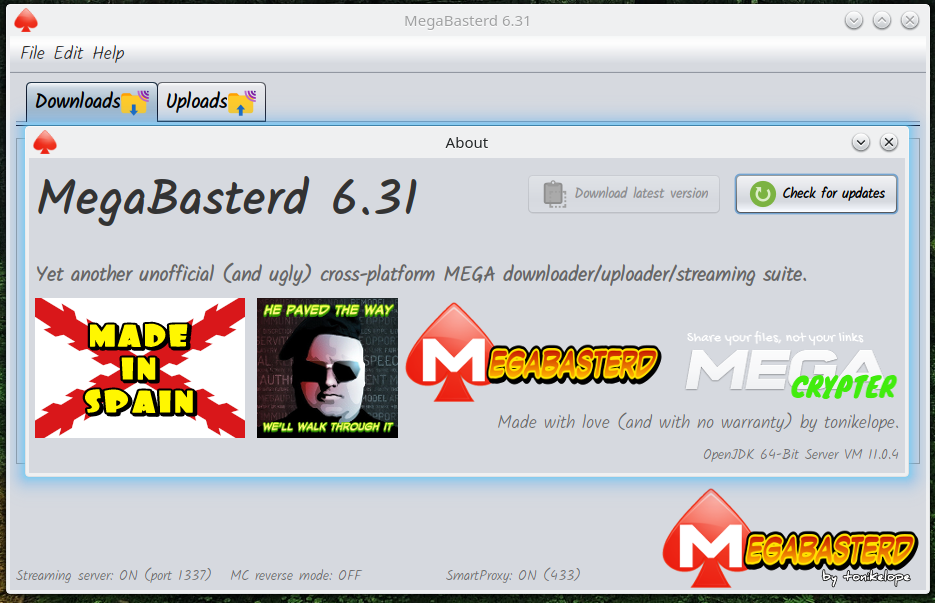
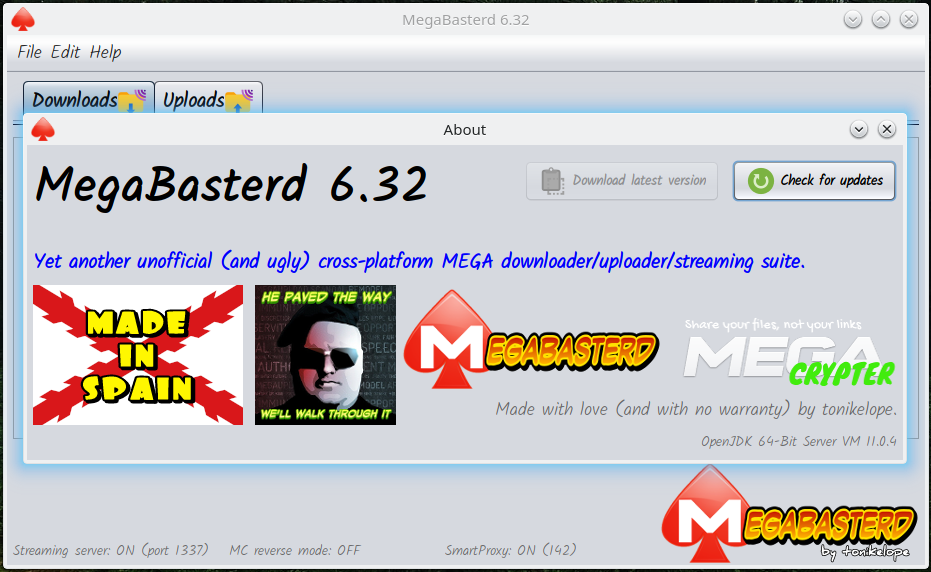
6.32
-Fix settings dialog

(cherry picked from commit f95789c1627fb07ef51b4e0871174550635ee090)

diff --git a/src/main/java/com/tonikelope/megabasterd/SettingsDialog.java b/src/main/java/com/tonikelope/megabasterd/SettingsDialog.java
@@ -760,7 +760,7 @@ public final class SettingsDialog extends javax.swing.JDialog {
         verify_file_down_checkbox.setDoubleBuffered(true);
 
         use_mega_account_down_checkbox.setFont(new java.awt.Font("Dialog", 1, 18)); // NOI18N
-        use_mega_account_down_checkbox.setText("Allow to use MEGA accounts for download/streaming");
+        use_mega_account_down_checkbox.setText("Allow using MEGA accounts for download/streaming");
         use_mega_account_down_checkbox.addChangeListener(new javax.swing.event.ChangeListener() {
             public void stateChanged(javax.swing.event.ChangeEvent evt) {
                 use_mega_account_down_checkboxStateChanged(evt);
@@ -842,32 +842,31 @@ public final class SettingsDialog extends javax.swing.JDialog {
                         .addContainerGap())
                     .addGroup(javax.swing.GroupLayout.Alignment.TRAILING, downloads_panelLayout.createSequentialGroup()
                         .addGroup(downloads_panelLayout.createParallelGroup(javax.swing.GroupLayout.Alignment.TRAILING)
-                            .addComponent(jSeparator10, javax.swing.GroupLayout.Alignment.LEADING, javax.swing.GroupLayout.DEFAULT_SIZE, 1235, Short.MAX_VALUE)
+                            .addComponent(jSeparator10, javax.swing.GroupLayout.Alignment.LEADING, javax.swing.GroupLayout.DEFAULT_SIZE, 1683, Short.MAX_VALUE)
+                            .addComponent(smart_proxy_checkbox, javax.swing.GroupLayout.Alignment.LEADING)
                             .addGroup(javax.swing.GroupLayout.Alignment.LEADING, downloads_panelLayout.createSequentialGroup()
-                                .addGroup(downloads_panelLayout.createParallelGroup(javax.swing.GroupLayout.Alignment.TRAILING)
-                                    .addComponent(smart_proxy_checkbox, javax.swing.GroupLayout.Alignment.LEADING)
-                                    .addGroup(javax.swing.GroupLayout.Alignment.LEADING, downloads_panelLayout.createSequentialGroup()
-                                        .addComponent(max_downloads_label)
+                                .addComponent(max_downloads_label)
+                                .addPreferredGap(javax.swing.LayoutStyle.ComponentPlacement.RELATED)
+                                .addComponent(max_downloads_spinner, javax.swing.GroupLayout.PREFERRED_SIZE, javax.swing.GroupLayout.DEFAULT_SIZE, javax.swing.GroupLayout.PREFERRED_SIZE))
+                            .addComponent(multi_slot_down_checkbox, javax.swing.GroupLayout.Alignment.LEADING)
+                            .addComponent(limit_download_speed_checkbox, javax.swing.GroupLayout.Alignment.LEADING)
+                            .addComponent(rec_smart_proxy_label, javax.swing.GroupLayout.Alignment.LEADING)
+                            .addGroup(javax.swing.GroupLayout.Alignment.LEADING, downloads_panelLayout.createSequentialGroup()
+                                .addGap(21, 21, 21)
+                                .addGroup(downloads_panelLayout.createParallelGroup(javax.swing.GroupLayout.Alignment.LEADING)
+                                    .addComponent(rec_download_slots_label)
+                                    .addGroup(downloads_panelLayout.createSequentialGroup()
+                                        .addComponent(default_slots_down_label)
                                         .addPreferredGap(javax.swing.LayoutStyle.ComponentPlacement.RELATED)
-                                        .addComponent(max_downloads_spinner, javax.swing.GroupLayout.PREFERRED_SIZE, javax.swing.GroupLayout.DEFAULT_SIZE, javax.swing.GroupLayout.PREFERRED_SIZE))
-                                    .addComponent(multi_slot_down_checkbox, javax.swing.GroupLayout.Alignment.LEADING)
-                                    .addComponent(limit_download_speed_checkbox, javax.swing.GroupLayout.Alignment.LEADING)
-                                    .addComponent(rec_smart_proxy_label, javax.swing.GroupLayout.Alignment.LEADING)
-                                    .addGroup(javax.swing.GroupLayout.Alignment.LEADING, downloads_panelLayout.createSequentialGroup()
-                                        .addGap(21, 21, 21)
-                                        .addGroup(downloads_panelLayout.createParallelGroup(javax.swing.GroupLayout.Alignment.LEADING)
-                                            .addComponent(use_mega_label)
-                                            .addComponent(rec_download_slots_label)
-                                            .addGroup(downloads_panelLayout.createSequentialGroup()
-                                                .addComponent(default_slots_down_label)
-                                                .addPreferredGap(javax.swing.LayoutStyle.ComponentPlacement.RELATED)
-                                                .addComponent(default_slots_down_spinner, javax.swing.GroupLayout.PREFERRED_SIZE, javax.swing.GroupLayout.DEFAULT_SIZE, javax.swing.GroupLayout.PREFERRED_SIZE))
-                                            .addGroup(downloads_panelLayout.createSequentialGroup()
-                                                .addComponent(max_down_speed_label)
-                                                .addPreferredGap(javax.swing.LayoutStyle.ComponentPlacement.RELATED)
-                                                .addComponent(max_down_speed_spinner, javax.swing.GroupLayout.PREFERRED_SIZE, javax.swing.GroupLayout.DEFAULT_SIZE, javax.swing.GroupLayout.PREFERRED_SIZE)))))
-                                .addGap(0, 0, Short.MAX_VALUE))
-                            .addComponent(use_mega_account_down_combobox, javax.swing.GroupLayout.Alignment.LEADING, 0, javax.swing.GroupLayout.DEFAULT_SIZE, Short.MAX_VALUE))
+                                        .addComponent(default_slots_down_spinner, javax.swing.GroupLayout.PREFERRED_SIZE, javax.swing.GroupLayout.DEFAULT_SIZE, javax.swing.GroupLayout.PREFERRED_SIZE))
+                                    .addGroup(downloads_panelLayout.createSequentialGroup()
+                                        .addComponent(max_down_speed_label)
+                                        .addPreferredGap(javax.swing.LayoutStyle.ComponentPlacement.RELATED)
+                                        .addComponent(max_down_speed_spinner, javax.swing.GroupLayout.PREFERRED_SIZE, javax.swing.GroupLayout.DEFAULT_SIZE, javax.swing.GroupLayout.PREFERRED_SIZE))
+                                    .addGroup(downloads_panelLayout.createSequentialGroup()
+                                        .addComponent(use_mega_label)
+                                        .addPreferredGap(javax.swing.LayoutStyle.ComponentPlacement.RELATED)
+                                        .addComponent(use_mega_account_down_combobox, javax.swing.GroupLayout.PREFERRED_SIZE, 700, javax.swing.GroupLayout.PREFERRED_SIZE)))))
                         .addGap(12, 12, 12))
                     .addGroup(downloads_panelLayout.createSequentialGroup()
                         .addGroup(downloads_panelLayout.createParallelGroup(javax.swing.GroupLayout.Alignment.LEADING)
@@ -1307,11 +1306,11 @@ public final class SettingsDialog extends javax.swing.JDialog {
                 .addContainerGap()
                 .addComponent(proxy_user_label)
                 .addPreferredGap(javax.swing.LayoutStyle.ComponentPlacement.RELATED)
-                .addComponent(proxy_user_textfield, javax.swing.GroupLayout.DEFAULT_SIZE, 389, Short.MAX_VALUE)
+                .addComponent(proxy_user_textfield)
                 .addPreferredGap(javax.swing.LayoutStyle.ComponentPlacement.RELATED)
                 .addComponent(proxy_pass_label)
                 .addPreferredGap(javax.swing.LayoutStyle.ComponentPlacement.RELATED)
-                .addComponent(proxy_pass_textfield, javax.swing.GroupLayout.DEFAULT_SIZE, 552, Short.MAX_VALUE))
+                .addComponent(proxy_pass_textfield))
         );
         proxy_auth_panelLayout.setVerticalGroup(
             proxy_auth_panelLayout.createParallelGroup(javax.swing.GroupLayout.Alignment.LEADING)
@@ -1448,72 +1447,65 @@ public final class SettingsDialog extends javax.swing.JDialog {
         advanced_panel.setLayout(advanced_panelLayout);
         advanced_panelLayout.setHorizontalGroup(
             advanced_panelLayout.createParallelGroup(javax.swing.GroupLayout.Alignment.LEADING)
-            .addGroup(advanced_panelLayout.createSequentialGroup()
+            .addGroup(javax.swing.GroupLayout.Alignment.TRAILING, advanced_panelLayout.createSequentialGroup()
                 .addContainerGap()
                 .addGroup(advanced_panelLayout.createParallelGroup(javax.swing.GroupLayout.Alignment.LEADING)
+                    .addComponent(jSeparator15, javax.swing.GroupLayout.Alignment.TRAILING)
+                    .addComponent(jSeparator12, javax.swing.GroupLayout.Alignment.TRAILING)
+                    .addComponent(jSeparator1)
+                    .addComponent(proxy_panel, javax.swing.GroupLayout.DEFAULT_SIZE, javax.swing.GroupLayout.DEFAULT_SIZE, Short.MAX_VALUE)
                     .addGroup(advanced_panelLayout.createSequentialGroup()
-                        .addComponent(rec_zoom_label)
+                        .addGroup(advanced_panelLayout.createParallelGroup(javax.swing.GroupLayout.Alignment.TRAILING)
+                            .addComponent(rec_zoom_label, javax.swing.GroupLayout.Alignment.LEADING)
+                            .addComponent(start_frozen_checkbox, javax.swing.GroupLayout.Alignment.LEADING)
+                            .addComponent(custom_chunks_dir_checkbox, javax.swing.GroupLayout.Alignment.LEADING)
+                            .addGroup(javax.swing.GroupLayout.Alignment.LEADING, advanced_panelLayout.createSequentialGroup()
+                                .addComponent(custom_chunks_dir_button)
+                                .addPreferredGap(javax.swing.LayoutStyle.ComponentPlacement.RELATED)
+                                .addComponent(custom_chunks_dir_current_label)))
                         .addGap(0, 0, Short.MAX_VALUE))
                     .addGroup(advanced_panelLayout.createSequentialGroup()
                         .addGroup(advanced_panelLayout.createParallelGroup(javax.swing.GroupLayout.Alignment.LEADING)
-                            .addComponent(jSeparator1)
-                            .addComponent(proxy_panel, javax.swing.GroupLayout.DEFAULT_SIZE, javax.swing.GroupLayout.DEFAULT_SIZE, Short.MAX_VALUE)
-                            .addComponent(jSeparator15)
-                            .addComponent(jSeparator12)
                             .addGroup(advanced_panelLayout.createSequentialGroup()
-                                .addGroup(advanced_panelLayout.createParallelGroup(javax.swing.GroupLayout.Alignment.LEADING)
-                                    .addComponent(start_frozen_checkbox)
-                                    .addComponent(custom_chunks_dir_checkbox)
-                                    .addGroup(advanced_panelLayout.createSequentialGroup()
-                                        .addComponent(custom_chunks_dir_button)
-                                        .addPreferredGap(javax.swing.LayoutStyle.ComponentPlacement.RELATED)
-                                        .addComponent(custom_chunks_dir_current_label)))
-                                .addGap(0, 0, Short.MAX_VALUE))
+                                .addComponent(font_label)
+                                .addPreferredGap(javax.swing.LayoutStyle.ComponentPlacement.RELATED)
+                                .addComponent(font_combo, 0, javax.swing.GroupLayout.DEFAULT_SIZE, Short.MAX_VALUE))
                             .addGroup(advanced_panelLayout.createSequentialGroup()
-                                .addGroup(advanced_panelLayout.createParallelGroup(javax.swing.GroupLayout.Alignment.LEADING)
-                                    .addGroup(advanced_panelLayout.createSequentialGroup()
-                                        .addComponent(font_label)
-                                        .addPreferredGap(javax.swing.LayoutStyle.ComponentPlacement.RELATED)
-                                        .addComponent(font_combo, 0, javax.swing.GroupLayout.DEFAULT_SIZE, Short.MAX_VALUE))
-                                    .addGroup(advanced_panelLayout.createSequentialGroup()
-                                        .addComponent(zoom_label)
-                                        .addPreferredGap(javax.swing.LayoutStyle.ComponentPlacement.RELATED)
-                                        .addComponent(zoom_spinner, javax.swing.GroupLayout.PREFERRED_SIZE, 100, javax.swing.GroupLayout.PREFERRED_SIZE)
-                                        .addGap(0, 0, Short.MAX_VALUE))
-                                    .addGroup(advanced_panelLayout.createSequentialGroup()
-                                        .addComponent(jLabel2)
-                                        .addPreferredGap(javax.swing.LayoutStyle.ComponentPlacement.RELATED)
-                                        .addComponent(language_combo, 0, javax.swing.GroupLayout.DEFAULT_SIZE, Short.MAX_VALUE)))
+                                .addComponent(zoom_label)
+                                .addPreferredGap(javax.swing.LayoutStyle.ComponentPlacement.RELATED)
+                                .addComponent(zoom_spinner, javax.swing.GroupLayout.PREFERRED_SIZE, 100, javax.swing.GroupLayout.PREFERRED_SIZE)
+                                .addGap(0, 227, Short.MAX_VALUE))
+                            .addGroup(advanced_panelLayout.createSequentialGroup()
+                                .addComponent(jLabel2)
+                                .addPreferredGap(javax.swing.LayoutStyle.ComponentPlacement.RELATED)
+                                .addComponent(language_combo, 0, javax.swing.GroupLayout.DEFAULT_SIZE, Short.MAX_VALUE)))
+                        .addGap(18, 18, 18)
+                        .addGroup(advanced_panelLayout.createParallelGroup(javax.swing.GroupLayout.Alignment.LEADING, false)
+                            .addGroup(advanced_panelLayout.createSequentialGroup()
+                                .addComponent(import_settings_button)
                                 .addGap(18, 18, 18)
-                                .addGroup(advanced_panelLayout.createParallelGroup(javax.swing.GroupLayout.Alignment.LEADING, false)
-                                    .addGroup(advanced_panelLayout.createSequentialGroup()
-                                        .addComponent(import_settings_button)
-                                        .addGap(18, 18, 18)
-                                        .addComponent(export_settings_button))
-                                    .addComponent(jButton1, javax.swing.GroupLayout.DEFAULT_SIZE, javax.swing.GroupLayout.DEFAULT_SIZE, Short.MAX_VALUE))))
-                        .addContainerGap())))
+                                .addComponent(export_settings_button))
+                            .addComponent(jButton1, javax.swing.GroupLayout.DEFAULT_SIZE, javax.swing.GroupLayout.DEFAULT_SIZE, Short.MAX_VALUE))))
+                .addContainerGap())
         );
         advanced_panelLayout.setVerticalGroup(
             advanced_panelLayout.createParallelGroup(javax.swing.GroupLayout.Alignment.LEADING)
             .addGroup(advanced_panelLayout.createSequentialGroup()
                 .addContainerGap()
-                .addGroup(advanced_panelLayout.createParallelGroup(javax.swing.GroupLayout.Alignment.LEADING, false)
-                    .addGroup(advanced_panelLayout.createParallelGroup(javax.swing.GroupLayout.Alignment.BASELINE)
-                        .addComponent(font_label)
-                        .addComponent(font_combo, javax.swing.GroupLayout.PREFERRED_SIZE, javax.swing.GroupLayout.DEFAULT_SIZE, javax.swing.GroupLayout.PREFERRED_SIZE)
-                        .addComponent(export_settings_button))
-                    .addComponent(import_settings_button, javax.swing.GroupLayout.DEFAULT_SIZE, javax.swing.GroupLayout.DEFAULT_SIZE, Short.MAX_VALUE))
+                .addGroup(advanced_panelLayout.createParallelGroup(javax.swing.GroupLayout.Alignment.BASELINE)
+                    .addComponent(font_label)
+                    .addComponent(font_combo, javax.swing.GroupLayout.PREFERRED_SIZE, javax.swing.GroupLayout.DEFAULT_SIZE, javax.swing.GroupLayout.PREFERRED_SIZE)
+                    .addComponent(import_settings_button)
+                    .addComponent(export_settings_button))
                 .addPreferredGap(javax.swing.LayoutStyle.ComponentPlacement.RELATED)
-                .addGroup(advanced_panelLayout.createParallelGroup(javax.swing.GroupLayout.Alignment.LEADING)
-                    .addGroup(advanced_panelLayout.createSequentialGroup()
-                        .addGroup(advanced_panelLayout.createParallelGroup(javax.swing.GroupLayout.Alignment.BASELINE)
-                            .addComponent(zoom_label)
-                            .addComponent(zoom_spinner, javax.swing.GroupLayout.PREFERRED_SIZE, javax.swing.GroupLayout.DEFAULT_SIZE, javax.swing.GroupLayout.PREFERRED_SIZE))
-                        .addPreferredGap(javax.swing.LayoutStyle.ComponentPlacement.RELATED)
-                        .addGroup(advanced_panelLayout.createParallelGroup(javax.swing.GroupLayout.Alignment.BASELINE)
-                            .addComponent(jLabel2)
-                            .addComponent(language_combo, javax.swing.GroupLayout.PREFERRED_SIZE, javax.swing.GroupLayout.DEFAULT_SIZE, javax.swing.GroupLayout.PREFERRED_SIZE)))
-                    .addComponent(jButton1, javax.swing.GroupLayout.Alignment.TRAILING))
+                .addGroup(advanced_panelLayout.createParallelGroup(javax.swing.GroupLayout.Alignment.BASELINE)
+                    .addComponent(zoom_label)
+                    .addComponent(zoom_spinner, javax.swing.GroupLayout.PREFERRED_SIZE, javax.swing.GroupLayout.DEFAULT_SIZE, javax.swing.GroupLayout.PREFERRED_SIZE))
+                .addPreferredGap(javax.swing.LayoutStyle.ComponentPlacement.RELATED)
+                .addGroup(advanced_panelLayout.createParallelGroup(javax.swing.GroupLayout.Alignment.BASELINE)
+                    .addComponent(jLabel2)
+                    .addComponent(language_combo, javax.swing.GroupLayout.PREFERRED_SIZE, javax.swing.GroupLayout.DEFAULT_SIZE, javax.swing.GroupLayout.PREFERRED_SIZE)
+                    .addComponent(jButton1))
                 .addPreferredGap(javax.swing.LayoutStyle.ComponentPlacement.RELATED)
                 .addComponent(jSeparator1, javax.swing.GroupLayout.PREFERRED_SIZE, 8, javax.swing.GroupLayout.PREFERRED_SIZE)
                 .addPreferredGap(javax.swing.LayoutStyle.ComponentPlacement.RELATED)

diff --git a/src/main/java/com/tonikelope/megabasterd/LabelTranslatorSingleton.java b/src/main/java/com/tonikelope/megabasterd/LabelTranslatorSingleton.java
@@ -70,7 +70,7 @@ public final class LabelTranslatorSingleton {
         _addTranslation("Remove selected", "Quitar seleccionado");
         _addTranslation("SPLIT FILE", "PARTIR ARCHIVO");
         _addTranslation("Encrypt on disk sensitive information", "Cifrar en disco datos sensibles");
-        _addTranslation("Allow to use MEGA accounts for download/streaming", "Permitir utilizar cuentas de MEGA para descargar/streaming");
+        _addTranslation("Allow using MEGA accounts for download/streaming", "Permitir utilizar cuentas de MEGA para descargar/streaming");
         _addTranslation("Please wait...", "Por favor espera...");
         _addTranslation("CANCEL RETRY", "CANCELAR REINTENTO");
         _addTranslation("SPLITTING FILE...", "PARTIENDO ARCHIVO...");

diff --git a/src/main/java/com/tonikelope/megabasterd/MainPanel.java b/src/main/java/com/tonikelope/megabasterd/MainPanel.java
@@ -50,7 +50,7 @@ import javax.swing.UIManager;
  */
 public final class MainPanel {
 
-    public static final String VERSION = "6.31";
+    public static final String VERSION = "6.32";
     public static final int THROTTLE_SLICE_SIZE = 16 * 1024;
     public static final int DEFAULT_BYTE_BUFFER_SIZE = 16 * 1024;
     public static final int STREAMER_PORT = 1337;
